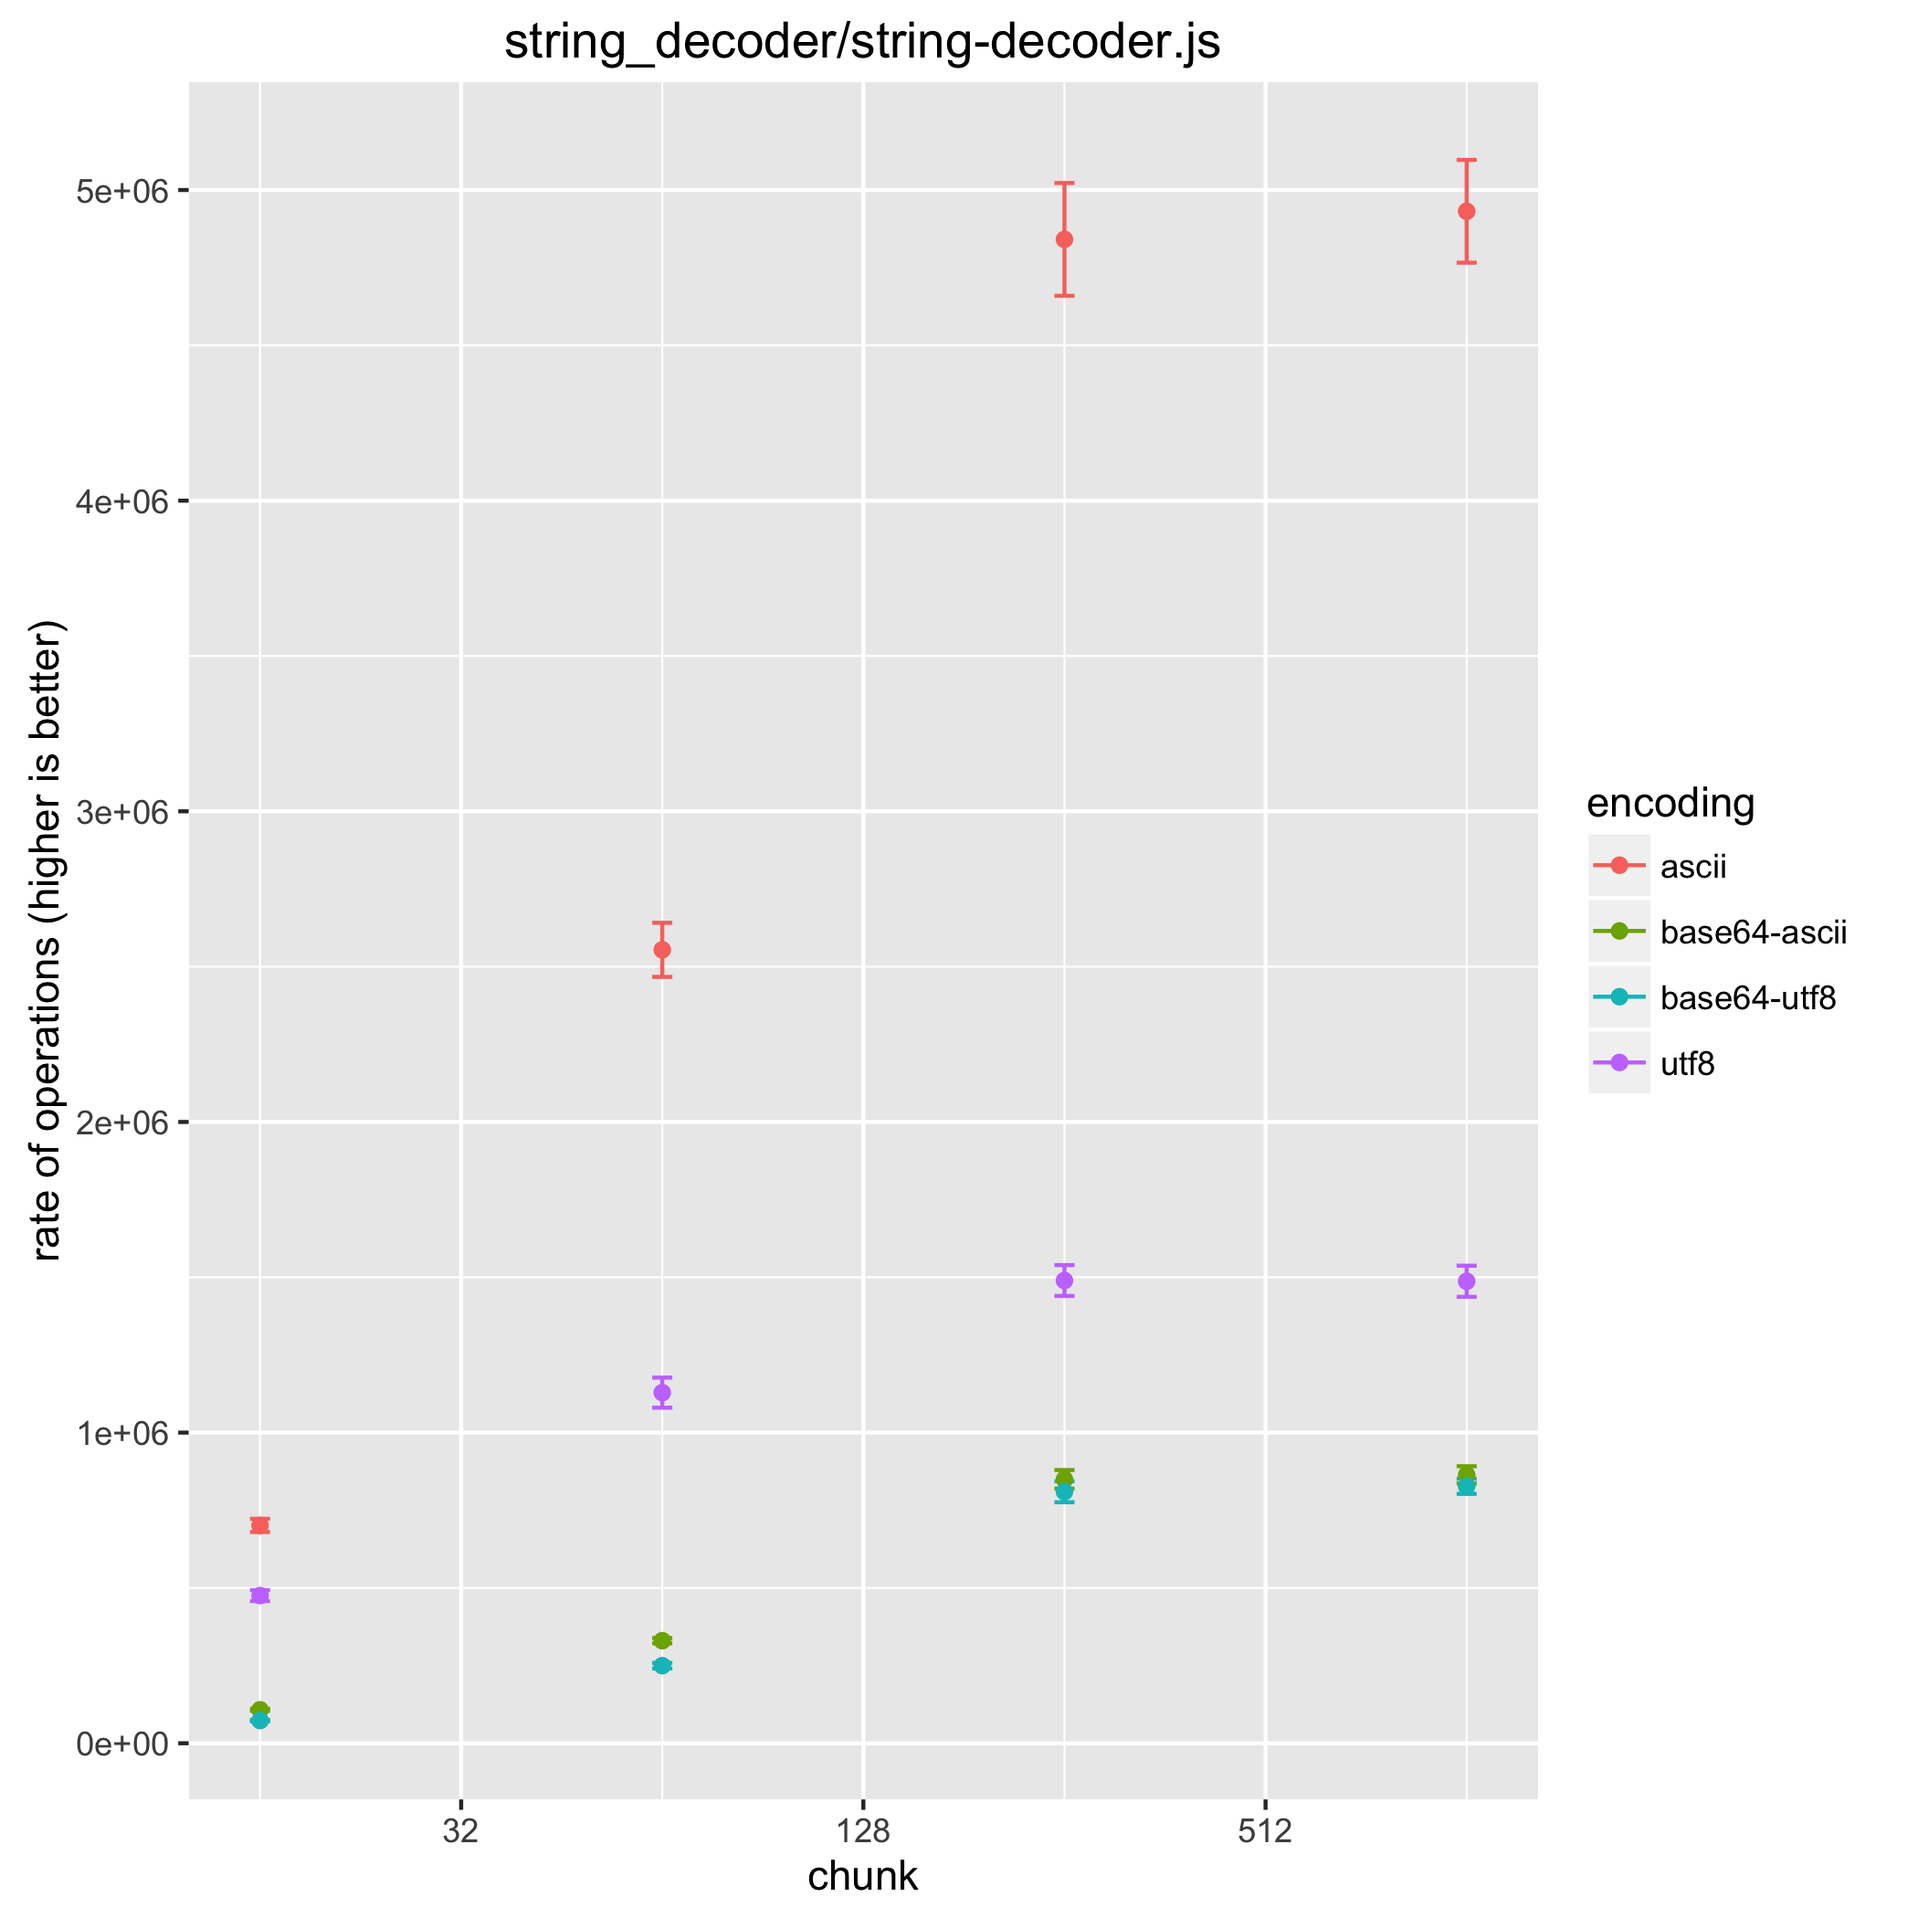
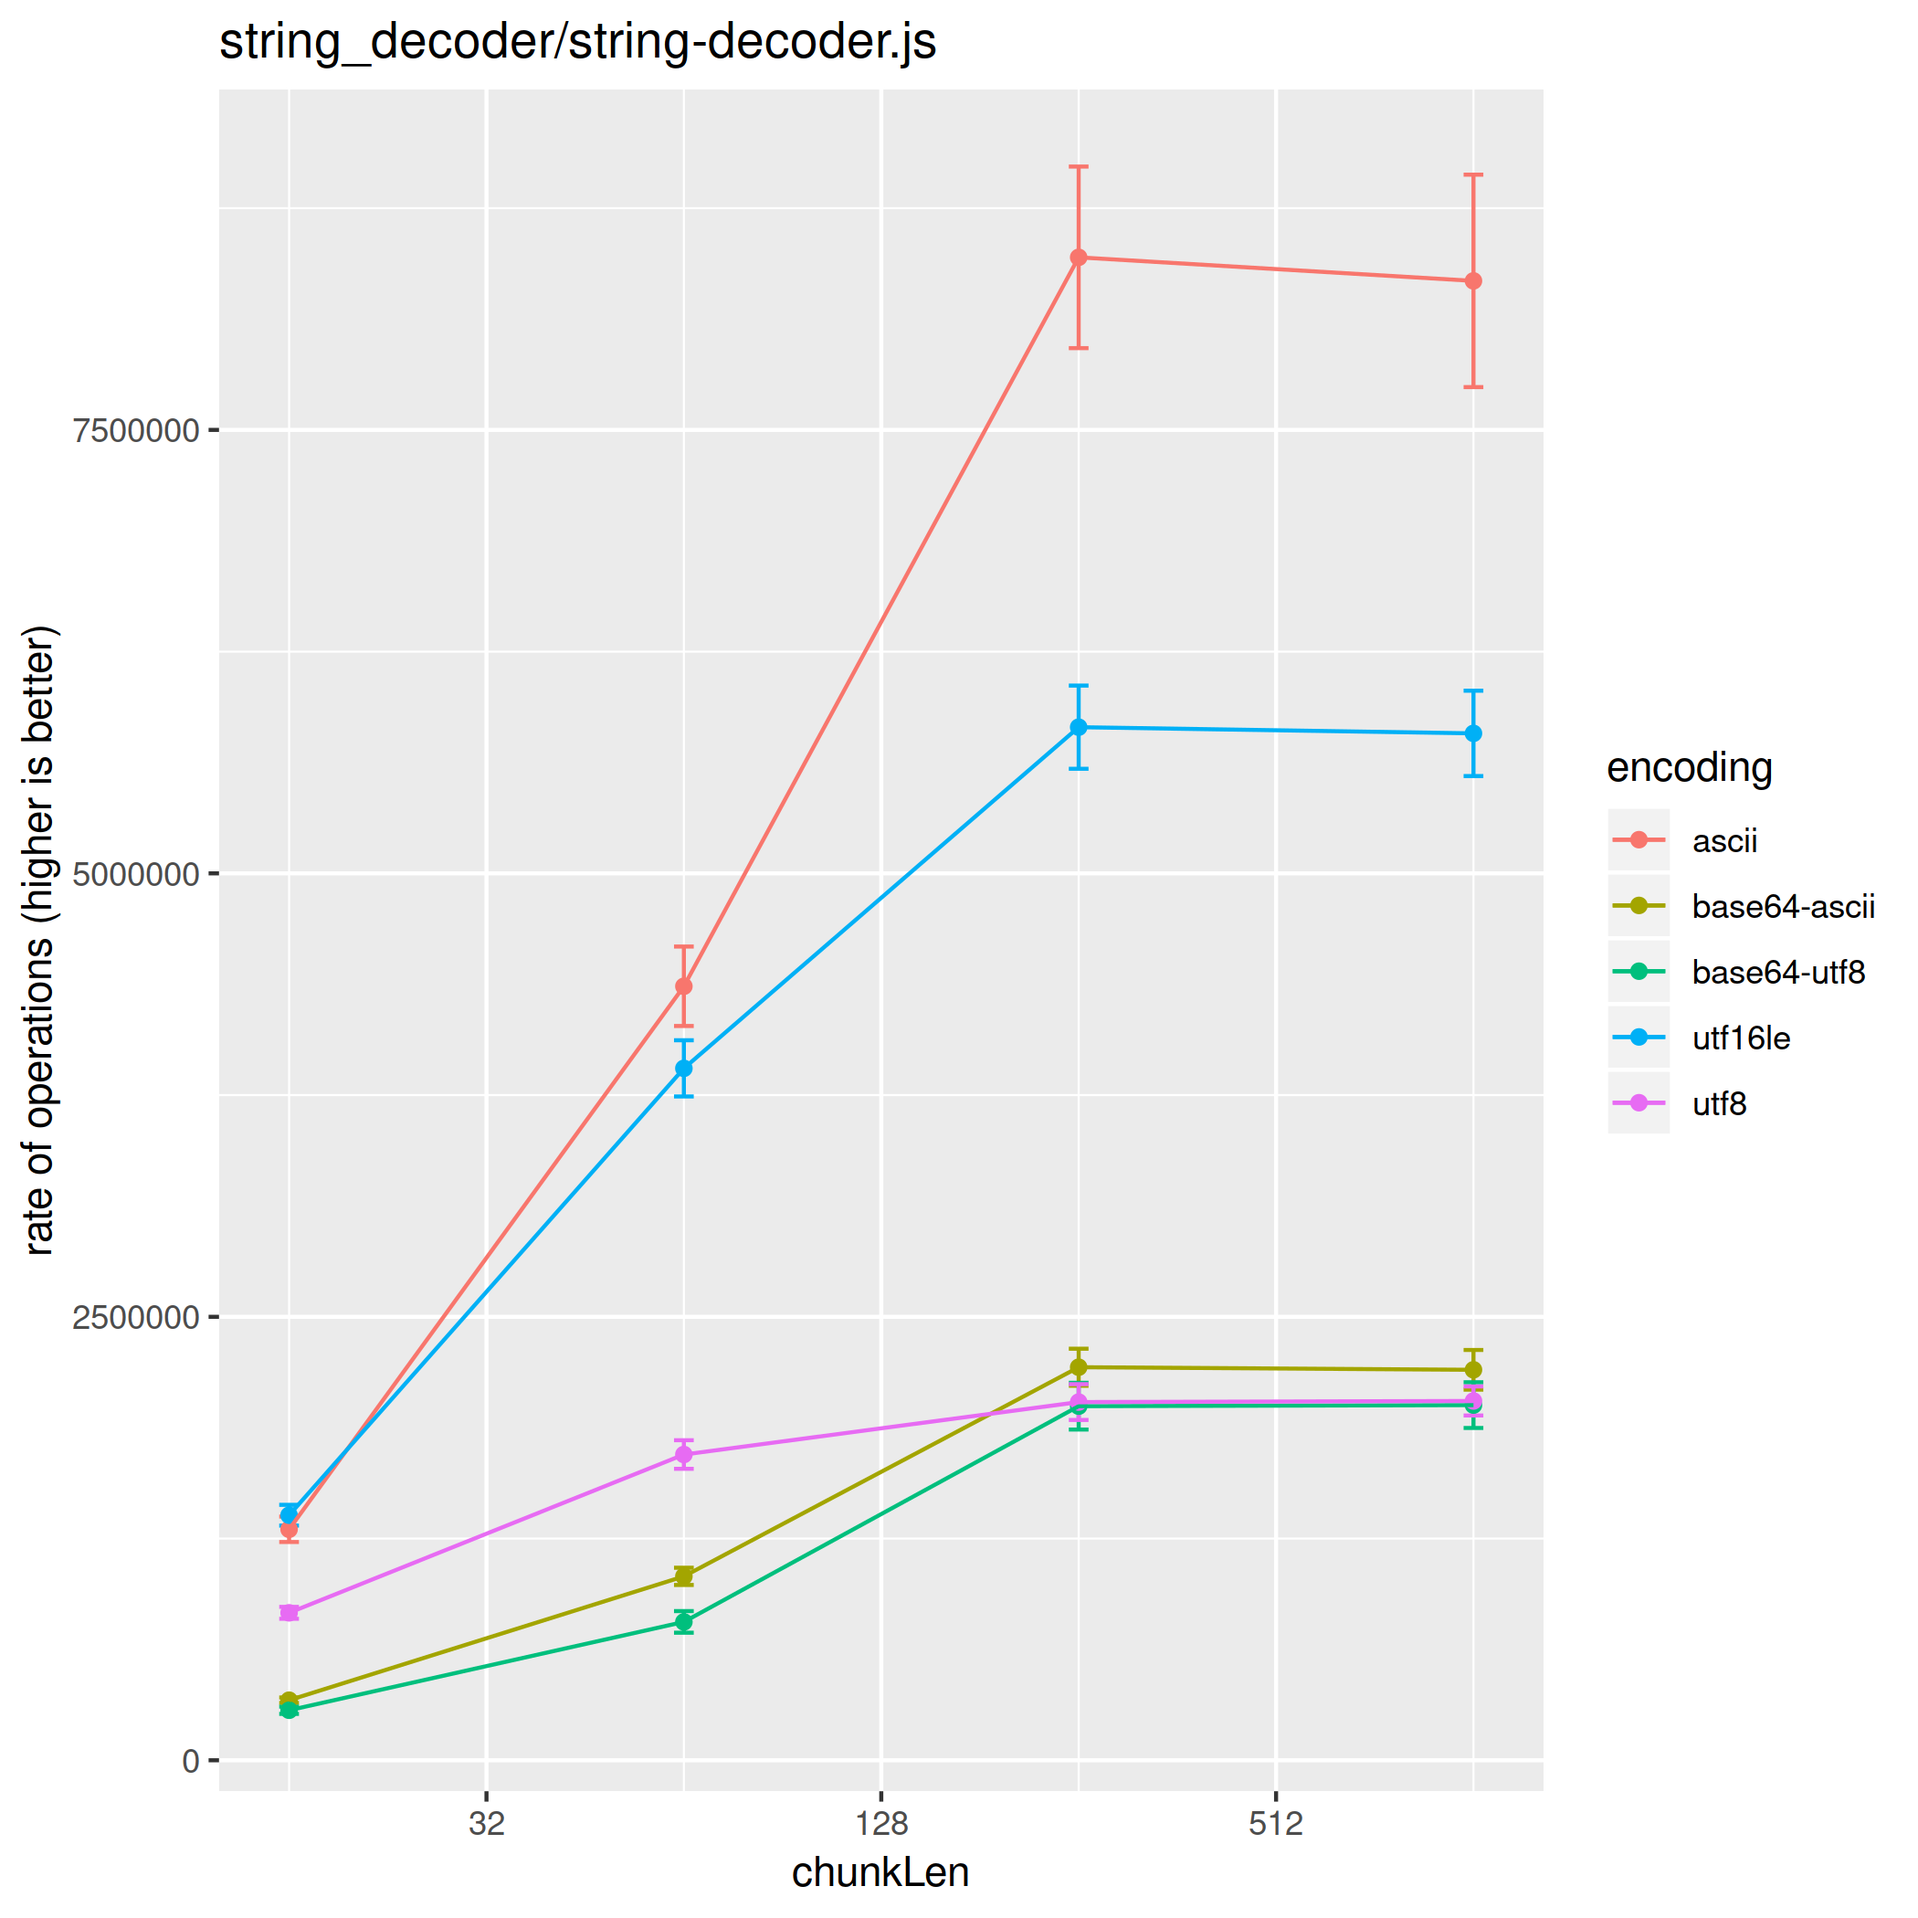
benchmark: add lines to scatter plots
Adds lines between the points of the same category in scatter.R plots.

PR-URL: https://github.com/nodejs/node/pull/22074

diff --git a/doc/guides/writing-and-running-benchmarks.md b/doc/guides/writing-and-running-benchmarks.md
@@ -270,56 +270,64 @@ After generating the csv, a comparison table can be created using the
 the `--plot filename` option.
 
 ```console
-$ cat scatter.csv | Rscript benchmark/scatter.R --xaxis chunk --category encoding --plot scatter-plot.png --log
+$ cat scatter.csv | Rscript benchmark/scatter.R --xaxis chunkLen --category encoding --plot scatter-plot.png --log
 
-aggregating variable: inlen
+aggregating variable: inLen
 
-chunk     encoding      mean confidence.interval
-   16        ascii 1111933.3           221502.48
-   16 base64-ascii  167508.4            33116.09
-   16  base64-utf8  122666.6            25037.65
-   16         utf8  783254.8           159601.79
-   64        ascii 2623462.9           399791.36
-   64 base64-ascii  462008.3            85369.45
-   64  base64-utf8  420108.4            85612.05
-   64         utf8 1358327.5           235152.03
-  256        ascii 3730343.4           371530.47
-  256 base64-ascii  663281.2            80302.73
-  256  base64-utf8  632911.7            81393.07
-  256         utf8 1554216.9           236066.53
- 1024        ascii 4399282.0           186436.46
- 1024 base64-ascii  730426.6            63806.12
- 1024  base64-utf8  680954.3            68076.33
- 1024         utf8 1554832.5           237532.07
+chunkLen     encoding      rate confidence.interval
+      16        ascii 1515855.1           334492.68
+      16 base64-ascii  403527.2            89677.70
+      16  base64-utf8  322352.8            70792.93
+      16      utf16le 1714567.5           388439.81
+      16         utf8 1100181.6           254141.32
+      64        ascii 3550402.0           661277.65
+      64 base64-ascii 1093660.3           229976.34
+      64  base64-utf8  997804.8           227238.04
+      64      utf16le 3372234.0           647274.88
+      64         utf8 1731941.2           360854.04
+     256        ascii 5033793.9           723354.30
+     256 base64-ascii 1447962.1           236625.96
+     256  base64-utf8 1357269.2           231045.70
+     256      utf16le 4039581.5           655483.16
+     256         utf8 1828672.9           360311.55
+    1024        ascii 5677592.7           624771.56
+    1024 base64-ascii 1494171.7           227302.34
+    1024  base64-utf8 1399218.9           224584.79
+    1024      utf16le 4157452.0           630416.28
+    1024         utf8 1824266.6           359628.52
 ```
 
-Because the scatter plot can only show two variables (in this case _chunk_ and
-_encoding_) the rest is aggregated. Sometimes aggregating is a problem, this
+Because the scatter plot can only show two variables (in this case _chunkLen_
+and _encoding_) the rest is aggregated. Sometimes aggregating is a problem, this
 can be solved by filtering. This can be done while benchmarking using the
 `--set` parameter (e.g. `--set encoding=ascii`) or by filtering results
 afterwards using tools such as `sed` or `grep`. In the `sed` case be
 sure to keep the first line since that contains the header information.
 
 ```console
-$ cat scatter.csv | sed -E '1p;/([^,]+, ){3}128,/!d' | Rscript benchmark/scatter.R --xaxis chunk --category encoding --plot scatter-plot.png --log
+$ cat scatter.csv | sed -E '1p;/([^,]+, ){3}128,/!d' | Rscript benchmark/scatter.R --xaxis chunkLen --category encoding --plot scatter-plot.png --log
 
-chunk     encoding       mean confidence.interval
-   16        ascii  701285.96           21233.982
-   16 base64-ascii  107719.07            3339.439
-   16  base64-utf8   72966.95            2438.448
-   16         utf8  475340.84           17685.450
-   64        ascii 2554105.08           87067.132
-   64 base64-ascii  330120.32            8551.707
-   64  base64-utf8  249693.19            8990.493
-   64         utf8 1128671.90           48433.862
-  256        ascii 4841070.04          181620.768
-  256 base64-ascii  849545.53           29931.656
-  256  base64-utf8  809629.89           33773.496
-  256         utf8 1489525.15           49616.334
- 1024        ascii 4931512.12          165402.805
- 1024 base64-ascii  863933.22           27766.982
- 1024  base64-utf8  827093.97           24376.522
- 1024         utf8 1487176.43           50128.721
+chunkLen     encoding      rate confidence.interval
+      16        ascii 1302078.5            71692.27
+      16 base64-ascii  338669.1            15159.54
+      16  base64-utf8  281904.2            20326.75
+      16      utf16le 1381515.5            58533.61
+      16         utf8  831183.2            33631.01
+      64        ascii 4363402.8           224030.00
+      64 base64-ascii 1036825.9            48644.72
+      64  base64-utf8  780059.3            60994.98
+      64      utf16le 3900749.5           158366.84
+      64         utf8 1723710.6            80665.65
+     256        ascii 8472896.1           511822.51
+     256 base64-ascii 2215884.6           104347.53
+     256  base64-utf8 1996230.3           131778.47
+     256      utf16le 5824147.6           234550.82
+     256         utf8 2019428.8           100913.36
+    1024        ascii 8340189.4           598855.08
+    1024 base64-ascii 2201316.2           111777.68
+    1024  base64-utf8 2002272.9           128843.11
+    1024      utf16le 5789281.7           240642.77
+    1024         utf8 2025551.2            81770.69
 ```
 
 ![compare tool boxplot](doc_img/scatter-plot.png)
